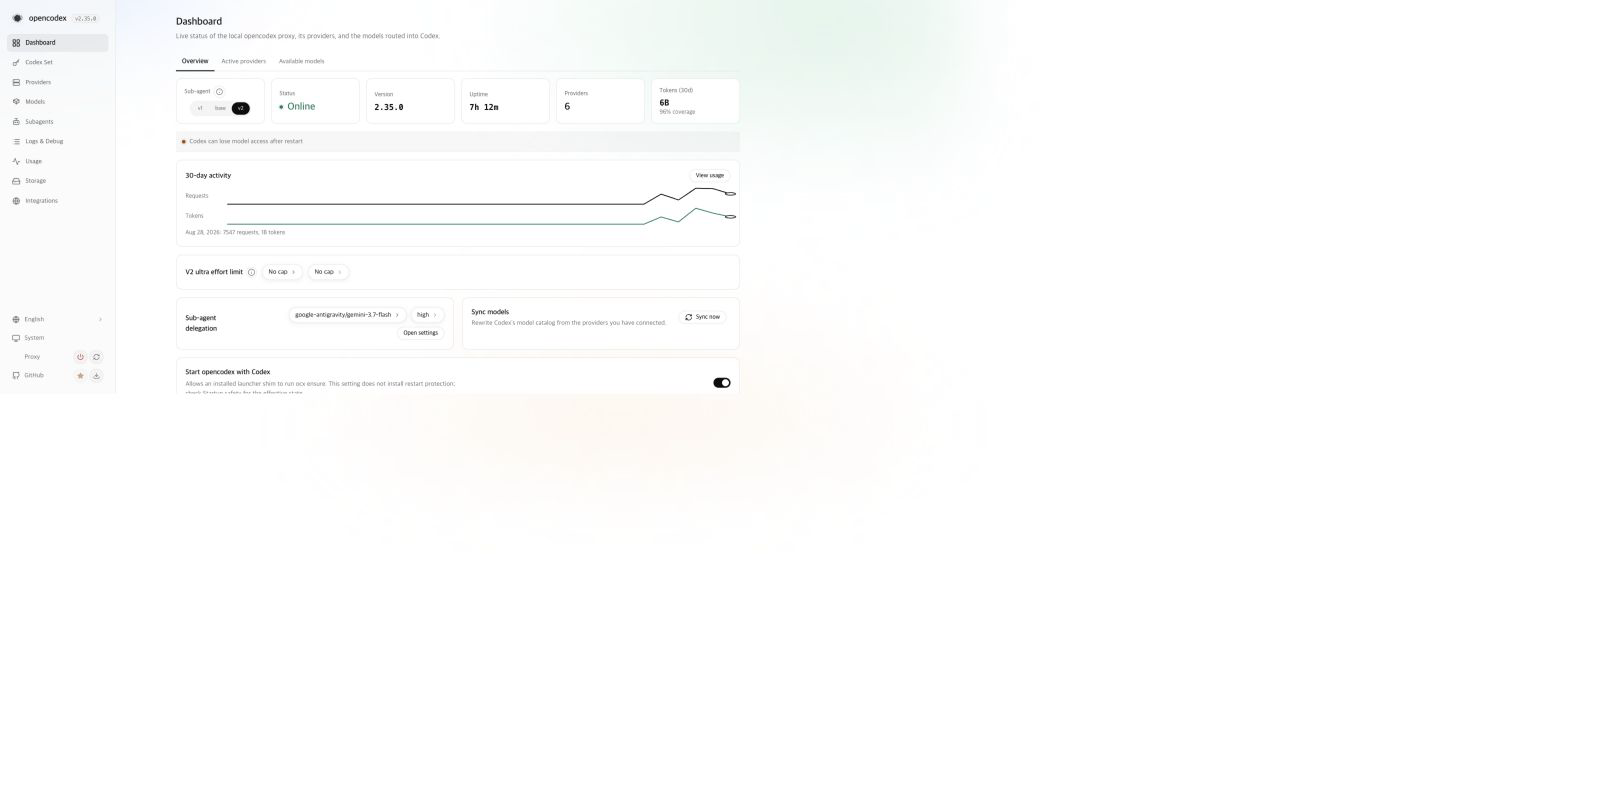
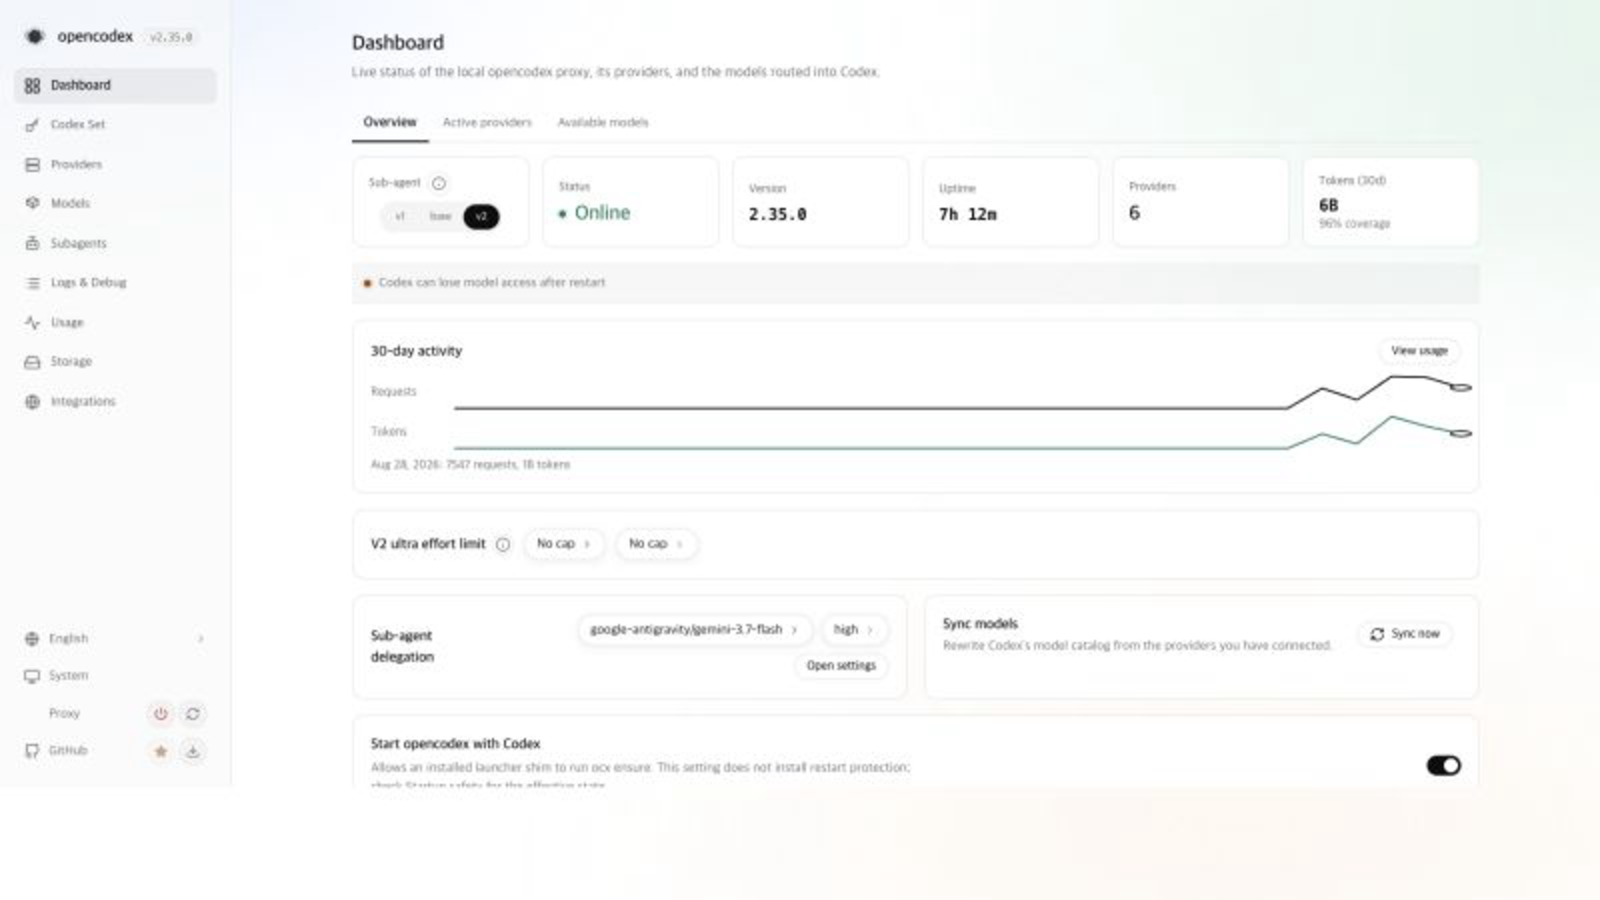
fix(gui): close final dashboard hardening gaps

diff --git a/gui/src/App.tsx b/gui/src/App.tsx
@@ -1,4 +1,4 @@
-import { lazy, Suspense, useEffect, useRef, useState } from "react";
+import { lazy, Suspense, useCallback, useEffect, useRef, useState } from "react";
 import { useKeyedClientResource } from "./client-resource";
 import Dashboard from "./pages/Dashboard";
 import ErrorBoundary from "./components/ErrorBoundary";
@@ -7,7 +7,7 @@ import { IconGrid, IconServer, IconBoxes, IconBot, IconList, IconActivity, IconH
 import { useI18n, useT, LOCALES, localeDisplayName, type Locale, type TKey } from "./i18n/shared";
 import { Select } from "./ui";
 import { installApiAuthFetch } from "./api";
-import { type Page } from "./app-routing";
+import { readPageFromHash, type Page } from "./app-routing";
 import { readModelsTab, type ModelsTab } from "./pages/models-tab";
 import { useAppRouteState } from "./use-app-route-state";
 import { requestProxyStop } from "./stop-proxy";
@@ -113,6 +113,11 @@ export default function App() {
   const restoreMenuFocus = useRef(false);
   const previousPage = useRef(page);
 
+  const dismissNav = useCallback((destination?: Page) => {
+    restoreMenuFocus.current = destination === undefined || destination === page;
+    setNavOpen(false);
+  }, [page]);
+
   useEffect(() => {
     document.title = t("app.pageTitle", { page: t(PAGE_TKEY[page]) });
   }, [page, t]);
@@ -127,14 +132,14 @@ export default function App() {
 
   useEffect(() => {
     // External navigation (hash edit, back/forward) also dismisses the mobile drawer.
-    const dismissNav = () => setNavOpen(false);
-    window.addEventListener("hashchange", dismissNav);
-    window.addEventListener("popstate", dismissNav);
+    const dismissForRoute = () => dismissNav(readPageFromHash());
+    window.addEventListener("hashchange", dismissForRoute);
+    window.addEventListener("popstate", dismissForRoute);
     return () => {
-      window.removeEventListener("hashchange", dismissNav);
-      window.removeEventListener("popstate", dismissNav);
+      window.removeEventListener("hashchange", dismissForRoute);
+      window.removeEventListener("popstate", dismissForRoute);
     };
-  }, []);
+  }, [dismissNav]);
 
   useEffect(() => {
     const el = document.documentElement;
@@ -163,14 +168,13 @@ export default function App() {
     if (!navOpen) return;
     const onKey = (e: KeyboardEvent) => {
       if (e.key !== "Escape") return;
-      restoreMenuFocus.current = true;
-      setNavOpen(false);
+      dismissNav();
     };
     window.addEventListener("keydown", onKey);
     const prevOverflow = document.body.style.overflow;
     document.body.style.overflow = "hidden";         // no background scroll behind the drawer
     return () => { window.removeEventListener("keydown", onKey); document.body.style.overflow = prevOverflow; };
-  }, [navOpen]);
+  }, [dismissNav, navOpen]);
 
   // Move focus into the drawer on open; hand it back to the toggle on close.
   useEffect(() => {
@@ -178,6 +182,10 @@ export default function App() {
       navWasOpen.current = true;
       restoreMenuFocus.current = false;
       // after the 180ms slide-in: while visibility is transitioning, focus() no-ops
+      if (window.matchMedia("(prefers-reduced-motion: reduce)").matches) {
+        sidebarRef.current?.focus();
+        return;
+      }
       const timer = setTimeout(() => sidebarRef.current?.focus(), 200);
       return () => clearTimeout(timer);
     }
@@ -250,11 +258,11 @@ export default function App() {
           </button>
         </div>
       </header>
-      {navOpen && <div className="drawer-scrim" onClick={() => setNavOpen(false)} aria-hidden="true" />}
+      {navOpen && <div className="drawer-scrim" onClick={() => dismissNav()} aria-hidden="true" />}
       <aside id="app-sidebar" className={`sidebar${navOpen ? " open" : ""}`} ref={sidebarRef} tabIndex={-1}>
         <div className="drawer-head">
           {brand}
-          <button type="button" className="menu-toggle drawer-close" onClick={() => setNavOpen(false)}
+          <button type="button" className="menu-toggle drawer-close" onClick={() => dismissNav()}
             aria-label={t("nav.closeMenu")} title={t("nav.closeMenu")}>
             <IconX />
           </button>
@@ -280,8 +288,8 @@ export default function App() {
                   data-page={id}
                   onClick={() => {
                     // Deliberate sidebar navigation — push a history entry.
+                    dismissNav(id);
                     navigateToPage(id);
-                    setNavOpen(false);
                   }}
                   aria-current={active ? "page" : undefined}>
                   <Icon /> {t(tkey)}
@@ -330,7 +338,7 @@ export default function App() {
               // The update dialog lives on the dashboard maintenance panel. Deep-link to
               // `#dashboard/update` and let the dashboard own the check/run flow — no
               // cross-component event bus, and the link survives a refresh.
-              setNavOpen(false);
+              dismissNav("dashboard");
               navigateToPage("dashboard", "update");
             }}
           />

diff --git a/gui/tests/app-route-continuity.test.tsx b/gui/tests/app-route-continuity.test.tsx
@@ -20,6 +20,7 @@ let previous: Record<(typeof globals)[number], PropertyDescriptor | undefined>;
 let win: Window;
 let root: Root | null = null;
 let scrollCalls = 0;
+let reducedMotion = false;
 
 function restore(key: PropertyKey, descriptor: PropertyDescriptor | undefined) {
   if (descriptor) Object.defineProperty(globalThis, key, descriptor);
@@ -32,11 +33,12 @@ beforeEach(() => {
   ) as typeof previous;
   win = new Window({ url: "http://localhost/#dashboard" });
   scrollCalls = 0;
+  reducedMotion = false;
   Object.defineProperties(win, {
     matchMedia: {
       configurable: true,
-      value: () => ({
-        matches: false,
+      value: (query: string) => ({
+        matches: query === "(prefers-reduced-motion: reduce)" && reducedMotion,
         addEventListener() {},
         removeEventListener() {},
       }),
@@ -95,6 +97,15 @@ function nav(label: string): HTMLButtonElement {
   return button;
 }
 
+async function openDrawer(waitForMotion = true) {
+  const menu = document.querySelector<HTMLButtonElement>(".mobile-topbar .menu-toggle")!;
+  await act(async () => { menu.click(); });
+  if (waitForMotion) {
+    await act(async () => { await new Promise(resolve => win.setTimeout(resolve, 210)); });
+  }
+  expect(document.activeElement?.id).toBe("app-sidebar");
+}
+
 test("a deliberate top-level route change owns title, scroll, focus, announcement, and motion", async () => {
   await mountApp();
   expect(document.title).toBe("Dashboard — opencodex");
@@ -125,19 +136,31 @@ test("a deliberate top-level route change owns title, scroll, focus, announcemen
   expect(document.querySelector(".main-inner")?.classList.contains("route-enter")).toBe(false);
 });
 
-test("only Escape restores mobile-drawer focus; navigation leaves focus on main", async () => {
+test("drawer dismissal restores focus except for a real route change and honors reduced motion", async () => {
   await mountApp();
-  const menu = document.querySelector<HTMLButtonElement>(".mobile-topbar .menu-toggle")!;
-
-  await act(async () => { menu.click(); });
-  await act(async () => { await new Promise(resolve => win.setTimeout(resolve, 210)); });
-  expect(document.activeElement?.id).toBe("app-sidebar");
+  await openDrawer();
 
   await act(async () => { win.dispatchEvent(new win.KeyboardEvent("keydown", { key: "Escape" })); });
-  expect(document.activeElement).toBe(menu);
+  expect(document.activeElement?.getAttribute("aria-controls")).toBe("app-sidebar");
 
-  await act(async () => { menu.click(); });
-  await act(async () => { await new Promise(resolve => win.setTimeout(resolve, 210)); });
+  await openDrawer();
+  await act(async () => { document.querySelector<HTMLButtonElement>(".drawer-close")!.click(); });
+  expect(document.activeElement?.getAttribute("aria-controls")).toBe("app-sidebar");
+
+  await openDrawer();
+  await act(async () => { document.querySelector<HTMLElement>(".drawer-scrim")!.click(); });
+  expect(document.activeElement?.getAttribute("aria-controls")).toBe("app-sidebar");
+
+  await openDrawer();
+  await act(async () => { nav("Dashboard").click(); });
+  expect(document.activeElement?.getAttribute("aria-controls")).toBe("app-sidebar");
+
+  reducedMotion = true;
+  await openDrawer(false);
+  await act(async () => { nav("Dashboard").click(); });
+  expect(document.activeElement?.getAttribute("aria-controls")).toBe("app-sidebar");
+
+  await openDrawer(false);
   await act(async () => { nav("Providers").click(); });
   await act(async () => { await new Promise(resolve => win.setTimeout(resolve, 30)); });
 

diff --git a/gui/src/styles.css b/gui/src/styles.css
@@ -2211,6 +2211,13 @@ button.prov-account-row.active { cursor: default; }
   .mobile-topbar-actions .sidebar-orb { width: 44px; height: 44px; flex: 0 0 44px; min-width: 44px; min-height: 44px; }
   .mobile-topbar-actions .sidebar-orb svg { width: 18px; height: 18px; }
   .menu-toggle { display: inline-flex; }
+  .startup-health-bar { padding-block: var(--space-2); }
+  .startup-health-bar__summary {
+    display: -webkit-box;
+    -webkit-box-orient: vertical;
+    -webkit-line-clamp: 2;
+    white-space: normal;
+  }
   /* drawer: the desktop sidebar kept intact (nav groups + foot + GitHub link), off-canvas */
   .sidebar {
     position: fixed; top: 0; left: 0; bottom: 0; z-index: var(--z-popover);

diff --git a/gui/src/i18n/ru.ts b/gui/src/i18n/ru.ts
@@ -596,8 +596,6 @@ export const ru: Record<TKey, string> = {
   "models.customSaving": "Сохранение…",
   "models.customAddBtn": "Добавить",
   "models.customEditBtn": "Обновить",
-  "models.customEdit": "Изменить",
-  "models.customDelete": "Удалить",
   "models.customEditNamed": "Изменить {name}",
   "models.customDeleteNamed": "Удалить {name}",
   "models.customDeleteConfirm": "Удалить модель {name}?",

diff --git a/gui/src/i18n/de.ts b/gui/src/i18n/de.ts
@@ -582,8 +582,6 @@ export const de: Record<TKey, string> = {
   "models.customSaving": "Wird gespeichert…",
   "models.customAddBtn": "Hinzufügen",
   "models.customEditBtn": "Aktualisieren",
-  "models.customEdit": "Bearbeiten",
-  "models.customDelete": "Löschen",
   "models.customEditNamed": "{name} bearbeiten",
   "models.customDeleteNamed": "{name} löschen",
   "models.customDeleteConfirm": "Modell {name} löschen?",

diff --git a/gui/src/i18n/fr.ts b/gui/src/i18n/fr.ts
@@ -593,8 +593,6 @@ export const fr: Record<TKey, string> = {
   "models.customSaving": "Enregistrement…",
   "models.customAddBtn": "Ajouter",
   "models.customEditBtn": "Mettre à jour",
-  "models.customEdit": "Modifier",
-  "models.customDelete": "Supprimer",
   "models.customEditNamed": "Modifier {name}",
   "models.customDeleteNamed": "Supprimer {name}",
   "models.customDeleteConfirm": "Supprimer le modèle {name} ?",

diff --git a/gui/src/i18n/tr.ts b/gui/src/i18n/tr.ts
@@ -599,8 +599,6 @@ export const tr: Record<TKey, string> = {
   "models.customSaving": "Kaydediliyor…",
   "models.customAddBtn": "Ekle",
   "models.customEditBtn": "Güncelle",
-  "models.customEdit": "Düzenle",
-  "models.customDelete": "Sil",
   "models.customEditNamed": "{name} modelini düzenle",
   "models.customDeleteNamed": "{name} modelini sil",
   "models.customDeleteConfirm": "{name} modeli silinsin mi?",

diff --git a/gui/src/i18n/ko.ts b/gui/src/i18n/ko.ts
@@ -593,8 +593,6 @@ export const ko: Record<TKey, string> = {
   "models.customSaving": "저장 중…",
   "models.customAddBtn": "추가",
   "models.customEditBtn": "수정",
-  "models.customEdit": "편집",
-  "models.customDelete": "삭제",
   "models.customEditNamed": "{name} 편집",
   "models.customDeleteNamed": "{name} 삭제",
   "models.customDeleteConfirm": "{name} 모델을 삭제하시겠습니까?",

diff --git a/gui/src/i18n/zh-TW.ts b/gui/src/i18n/zh-TW.ts
@@ -464,8 +464,6 @@ export const zhTW: Record<TKey, string> = {
   "models.customSaving": "正在儲存…",
   "models.customAddBtn": "新增",
   "models.customEditBtn": "更新",
-  "models.customEdit": "編輯",
-  "models.customDelete": "刪除",
   "models.customEditNamed": "編輯{name}",
   "models.customDeleteNamed": "刪除{name}",
   "models.customDeleteConfirm": "要刪除模型 {name} 嗎？",

diff --git a/gui/src/i18n/zh.ts b/gui/src/i18n/zh.ts
@@ -590,8 +590,6 @@ export const zh: Record<TKey, string> = {
   "models.customSaving": "正在保存…",
   "models.customAddBtn": "添加",
   "models.customEditBtn": "更新",
-  "models.customEdit": "编辑",
-  "models.customDelete": "删除",
   "models.customEditNamed": "编辑{name}",
   "models.customDeleteNamed": "删除{name}",
   "models.customDeleteConfirm": "要删除模型 {name} 吗？",

diff --git a/gui/src/i18n/ja.ts b/gui/src/i18n/ja.ts
@@ -2345,8 +2345,6 @@ export const ja: Record<TKey, string> = {
   "models.customSaving": "Saving…",
   "models.customAddBtn": "Add",
   "models.customEditBtn": "Update",
-  "models.customEdit": "Edit",
-  "models.customDelete": "Delete",
   "models.customEditNamed": "{name}を編集",
   "models.customDeleteNamed": "{name}を削除",
   "models.customDeleteConfirm": "Delete the {name} model?",

diff --git a/gui/src/i18n/en.ts b/gui/src/i18n/en.ts
@@ -608,8 +608,6 @@ export const en = {
   "models.customSaving": "Saving…",
   "models.customAddBtn": "Add",
   "models.customEditBtn": "Update",
-  "models.customEdit": "Edit",
-  "models.customDelete": "Delete",
   "models.customEditNamed": "Edit {name}",
   "models.customDeleteNamed": "Delete {name}",
   "models.customDeleteConfirm": "Delete the {name} model?",
